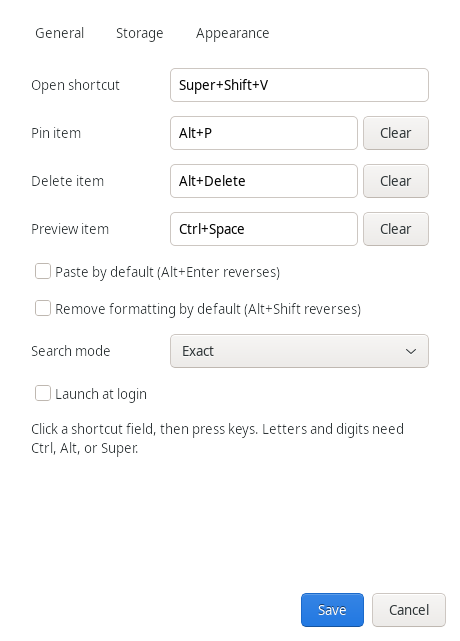
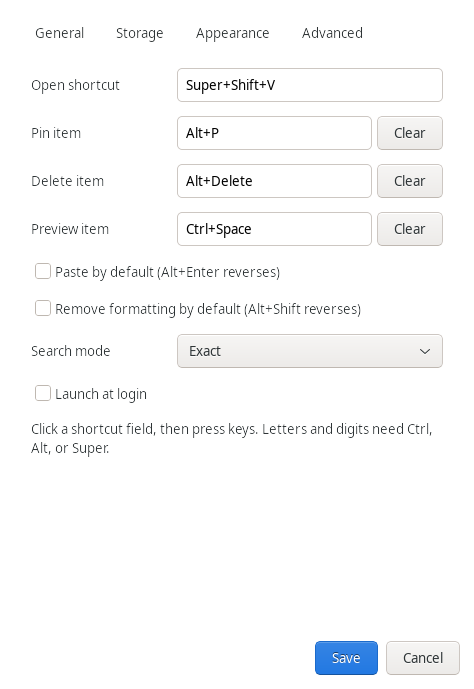
Add Advanced settings and preserve pins on quit

diff --git a/linuxxy.py b/linuxxy.py
@@ -39,7 +39,7 @@ class App:
         self.clipboard = Gtk.Clipboard.get(Gdk.SELECTION_CLIPBOARD)
         self.clipboard_handler = self.clipboard.connect("owner-change", self.on_clipboard_change)
         self.closed = False
-        self.paused = False
+        self.paused = self.settings.get("monitoring_paused")
         self.x11 = None
         self.rich_clipboard = None
         self.return_window = None
@@ -186,7 +186,7 @@ class App:
         self.update_search_visibility()
 
         self.tray = Gtk.StatusIcon.new_from_icon_name("edit-paste")
-        self.tray.set_tooltip_text("Linuxxy")
+        self.tray.set_tooltip_text("Linuxxy (paused)" if self.paused else "Linuxxy")
         self.tray.connect("activate", lambda *_: self.toggle_window())
         self.tray.connect("popup-menu", self.tray_menu)
         self.poll_id = GLib.timeout_add(self.settings.get("check_interval_ms"), self.poll_clipboard)
@@ -830,7 +830,15 @@ class App:
 
     def clear(self, *_):
         self.history.clear()
+        self.clear_system_clipboard_if_enabled()
         self.refresh()
+
+    def clear_system_clipboard_if_enabled(self):
+        if self.settings.get("clear_system_clipboard"):
+            self.ignore_own_change_until = time.monotonic() + 1
+            self.clipboard.set_text("", -1)
+            self.clipboard.store()
+            self.last_signature = ("text", "")
 
     def on_key(self, _window, event):
         ctrl = bool(event.state & Gdk.ModifierType.CONTROL_MASK)
@@ -901,6 +909,7 @@ class App:
                 self.history.clear_all()
             else:
                 self.history.clear()
+            self.clear_system_clipboard_if_enabled()
             self.refresh()
             return True
         if event.keyval == Gdk.KEY_Return:
@@ -1084,7 +1093,7 @@ class App:
         notebook = Gtk.Notebook()
         layout.pack_start(notebook, True, True, 0)
         grids = {}
-        for title in ("General", "Storage", "Appearance"):
+        for title in ("General", "Storage", "Appearance", "Advanced"):
             grid = Gtk.Grid(column_spacing=16, row_spacing=14)
             grid.set_border_width(16)
             notebook.append_page(grid, Gtk.Label(label=title))
@@ -1171,20 +1180,21 @@ class App:
         save_files = Gtk.CheckButton(label="Save files")
         save_files.set_active(self.settings.get("save_files"))
         grids["Storage"].attach(save_files, 0, 2, 2, 1)
-        field(grids["Storage"], 3, "History items", size)
+        storage_size = Gtk.Box(spacing=9)
+        storage_size.pack_start(size, False, False, 0)
+        storage_size.pack_start(Gtk.Label(label=GLib.format_size(self.history.disk_size())),
+                                False, False, 0)
+        field(grids["Storage"], 3, "History items", storage_size)
         interval = Gtk.SpinButton.new_with_range(100, 5000, 100)
         interval.set_value(self.settings.get("check_interval_ms"))
         field(grids["Storage"], 4, "Clipboard check (ms)", interval)
-        clear_on_quit = Gtk.CheckButton(label="Clear history on quit")
-        clear_on_quit.set_active(self.settings.get("clear_on_quit"))
-        grids["Storage"].attach(clear_on_quit, 0, 5, 2, 1)
         sort_by = Gtk.ComboBoxText()
         for key, label in (("last_copied", "Last copied"),
                            ("first_copied", "First copied"),
                            ("most_copied", "Most copied")):
             sort_by.append(key, label)
         sort_by.set_active_id(self.settings.get("sort_by"))
-        field(grids["Storage"], 6, "Sort by", sort_by)
+        field(grids["Storage"], 5, "Sort by", sort_by)
 
         pins_position = Gtk.ComboBoxText()
         pins_position.append("top", "Top")
@@ -1255,6 +1265,18 @@ class App:
         window_size.pack_start(Gtk.Label(label="Height limit"), False, False, 0)
         window_size.pack_start(popup_height, False, False, 0)
         grids["Appearance"].attach(window_size, 0, 12, 2, 1)
+        pause_monitoring = Gtk.CheckButton(label="Pause clipboard monitoring")
+        pause_monitoring.set_name("linuxxy-pause-monitoring-setting")
+        pause_monitoring.set_active(self.settings.get("monitoring_paused"))
+        grids["Advanced"].attach(pause_monitoring, 0, 0, 2, 1)
+        clear_on_quit = Gtk.CheckButton(label="Clear unpinned history on quit")
+        clear_on_quit.set_name("linuxxy-clear-on-quit-setting")
+        clear_on_quit.set_active(self.settings.get("clear_on_quit"))
+        grids["Advanced"].attach(clear_on_quit, 0, 1, 2, 1)
+        clear_system_clipboard = Gtk.CheckButton(label="Also clear system clipboard when clearing history")
+        clear_system_clipboard.set_name("linuxxy-clear-clipboard-setting")
+        clear_system_clipboard.set_active(self.settings.get("clear_system_clipboard"))
+        grids["Advanced"].attach(clear_system_clipboard, 0, 2, 2, 1)
         buttons = Gtk.Box(spacing=8)
         layout.pack_end(buttons, False, False, 0)
         cancel = Gtk.Button(label="Cancel")
@@ -1319,10 +1341,14 @@ class App:
                 ("show_title", show_title.get_active()),
                 ("search_visibility", search_visibility.get_active_id()),
                 ("clear_on_quit", clear_on_quit.get_active()),
+                ("clear_system_clipboard", clear_system_clipboard.get_active()),
+                ("monitoring_paused", pause_monitoring.get_active()),
                 ("launch_at_login", launch_at_login.get_active()),
             ):
                 self.settings.set(key, value, save=False)
             self.settings.save()
+            self.paused = self.settings.get("monitoring_paused")
+            self.tray.set_tooltip_text("Linuxxy (paused)" if self.paused else "Linuxxy")
             self.content_width = self.settings.get("popup_width")
             self.main_column.set_size_request(self.content_width, -1)
             set_autostart(self.settings.get("launch_at_login"))
@@ -1342,6 +1368,7 @@ class App:
 
     def toggle_pause(self):
         self.paused = not self.paused
+        self.settings.set("monitoring_paused", self.paused)
         self.tray.set_tooltip_text("Linuxxy (paused)" if self.paused else "Linuxxy")
 
     def toggle_preview(self):
@@ -1521,7 +1548,8 @@ class App:
         if GLib.MainContext.default().find_source_by_id(self.poll_id):
             GLib.source_remove(self.poll_id)
         if self.settings.get("clear_on_quit"):
-            self.history.clear_all()
+            self.history.clear()
+            self.clear_system_clipboard_if_enabled()
         if self.x11:
             self.x11.close()
         if self.rich_clipboard:

diff --git a/tests/advanced_settings_smoke.py b/tests/advanced_settings_smoke.py
@@ -1,0 +1,106 @@
+"""Exercise Advanced settings, pause, clipboard clearing, and pinned quit data."""
+
+import os
+import sys
+import tempfile
+import time
+from pathlib import Path
+
+import gi
+gi.require_version('Gtk', '3.0')
+gi.require_version('Gdk', '3.0')
+gi.require_version('GdkX11', '3.0')
+from gi.repository import Gdk, GdkX11, GLib, Gtk
+
+from ui_smoke import screenshot
+
+ROOT = Path(__file__).resolve().parents[1]
+sys.path.insert(0, str(ROOT))
+from history import History
+from linuxxy import App
+from settings import Settings
+
+
+def pump(seconds=.2):
+    end = time.monotonic() + seconds
+    while time.monotonic() < end:
+        GLib.MainContext.default().iteration(False)
+        time.sleep(.01)
+
+
+def descend(widget):
+    yield widget
+    if isinstance(widget, Gtk.Container):
+        for child in widget.get_children():
+            yield from descend(child)
+
+
+clipboard = Gtk.Clipboard.get(Gdk.SELECTION_CLIPBOARD)
+original_image = clipboard.wait_for_image() if clipboard.wait_is_image_available() else None
+original_text = clipboard.wait_for_text() if original_image is None else None
+clipboard.set_text(' ', -1)
+clipboard.store()
+try:
+    with tempfile.TemporaryDirectory() as directory:
+        os.environ['XDG_DATA_HOME'] = directory
+        os.environ['XDG_CONFIG_HOME'] = directory
+        os.environ['XDG_RUNTIME_DIR'] = directory
+        os.environ['XDG_SESSION_TYPE'] = 'x11'
+        database = Path(directory) / 'linuxxy/history.sqlite'
+        history = History(database)
+        history.add('Keep this pin')
+        history.pin(history.list()[0][0], True)
+        history.add('Remove this item')
+        history.close()
+        app = App()
+        try:
+            app.show_settings()
+            pump()
+            notebook = app.preferences.get_child().get_children()[0]
+            notebook.set_current_page(3)
+            controls = {widget.get_name(): widget for widget in descend(app.preferences)}
+            for name in ('linuxxy-pause-monitoring-setting',
+                         'linuxxy-clear-on-quit-setting', 'linuxxy-clear-clipboard-setting'):
+                controls[name].set_active(True)
+            pump()
+            screenshot(GdkX11.X11Window.get_xid(app.preferences.get_window()),
+                       'ui_advanced.png')
+            save = next(widget for widget in descend(app.preferences)
+                        if isinstance(widget, Gtk.Button) and widget.get_label() == 'Save')
+            save.clicked()
+            pump()
+            assert app.paused and Settings().get('monitoring_paused')
+
+            clipboard.set_text('Paused copy', -1)
+            clipboard.store()
+            app.capture(force=True)
+            assert not any(row[1] == 'Paused copy' for row in app.history.list())
+            app.toggle_pause()
+            assert not app.paused and not Settings().get('monitoring_paused')
+            clipboard.set_text('Recorded copy', -1)
+            clipboard.store()
+            app.capture(force=True)
+            assert any(row[1] == 'Recorded copy' for row in app.history.list())
+
+            app.clear()
+            pump()
+            assert clipboard.wait_for_text() in ('', None)
+            assert [row[1] for row in app.history.list()] == ['Keep this pin']
+            app.history.add('Remove on quit')
+            app.quit()
+            reopened = History(database)
+            try:
+                assert [row[1] for row in reopened.list()] == ['Keep this pin']
+            finally:
+                reopened.close()
+            assert clipboard.wait_for_text() in ('', None)
+            print('Advanced settings, pause, clipboard clearing, and pinned quit behavior passed')
+        finally:
+            if not app.closed:
+                app.quit()
+finally:
+    if original_image is not None:
+        clipboard.set_image(original_image)
+    elif original_text is not None:
+        clipboard.set_text(original_text, -1)
+    clipboard.store()

diff --git a/history.py b/history.py
@@ -14,6 +14,7 @@ _UNSET = object()
 class History:
     def __init__(self, path: Path, limit: int = 200):
         self.limit = limit
+        self.path = Path(path)
         path.parent.mkdir(parents=True, exist_ok=True)
         self.db = sqlite3.connect(path)
         self.db.execute("PRAGMA journal_mode=WAL")
@@ -109,6 +110,10 @@ class History:
         self.limit = limit
         with self.db:
             self._prune()
+
+    def disk_size(self):
+        return sum(candidate.stat().st_size for candidate in
+                   (self.path, Path(str(self.path) + "-wal")) if candidate.exists())
 
     def list(self, query: str = "", mode: str = "exact", pins_position: str = "top",
              sort_by: str = "last_copied"):

diff --git a/tests/visual_sample.py b/tests/visual_sample.py
@@ -83,11 +83,12 @@ with tempfile.TemporaryDirectory() as directory:
             notebook.set_current_page(number)
             def take():
                 try:
-                    shot(app.preferences, ('general.png', 'storage.png', 'appearance.png')[number])
+                    shot(app.preferences, ('general.png', 'storage.png',
+                                           'appearance.png', 'advanced.png')[number])
                 except Exception:
                     app.quit()
                     raise
-                if number < 2:
+                if number < 3:
                     page(number + 1)
                 else:
                     appearance = notebook.get_nth_page(2)

diff --git a/settings.py b/settings.py
@@ -15,6 +15,8 @@ DEFAULTS = {
     "history_size": 200,
     "check_interval_ms": 500,
     "clear_on_quit": False,
+    "clear_system_clipboard": False,
+    "monitoring_paused": False,
     "popup_position": "cursor",
     "popup_last_position": None,
     "launch_at_login": False,

diff --git a/README.md b/README.md
@@ -80,7 +80,7 @@ and image dimensions and size. This shortcut is configurable. The side preview
 also opens after the selected item rests for 1.5 seconds by default. Drag the
 divider between the list and preview to resize them; both widths are remembered.
 Open **Preferences…** from the footer or tray menu, or press **Ctrl+,** while
-the popup is open. General, Storage, and Appearance pages cover the opening
+the popup is open. General, Storage, Appearance, and Advanced pages cover the opening
 shortcut, item pin/delete/preview shortcuts, default paste and formatting behavior,
 text/image/file capture, history
 limit, clipboard check interval, history sorting (last copied, first copied, or most copied),
@@ -90,9 +90,12 @@ active window, screen center, or last position), automatic preview
 and its delay, image thumbnail height, hex color swatches, visible whitespace
 symbols, search field visibility (always, while typing, or hidden), footer
 visibility, an optional title before the search field, optional source application
-icons, popup width and height limit, clear-on-quit behavior, and launch
+icons, popup width and height limit, clear-on-quit behavior, optional system
+clipboard clearing when history is cleared, pause monitoring, and launch
 at login. When the search field is hidden, typing still filters the history;
 Backspace removes the last character.
+Storage shows the current history database size. Clearing history on quit keeps
+pinned items; the separate clear-all shortcut removes them.
 Drag the popup's title to move it; the last-position option reopens it there.
 Preferences are saved in
 `$XDG_CONFIG_HOME/linuxxy/settings.json`.
@@ -152,6 +155,9 @@ selection updates, including pointer hover. It also drags the divider with X11
 mouse events and checks saved widths.
 The [window size test](tests/window_size_smoke.py) changes width and height in
 Appearance settings, reopens a long history, and captures the resized popup.
+The [Advanced settings test](tests/advanced_settings_smoke.py) changes the real
+settings controls, checks paused monitoring and clipboard clearing, and verifies
+that pinned items survive clear-on-quit.
 The [shortcut behavior test](tests/action_shortcuts_behavior.py) checks validation,
 conflicts, disabled keys, and persistence.
 The [search test](tests/search_behavior.py) verifies matching modes, fuzzy
